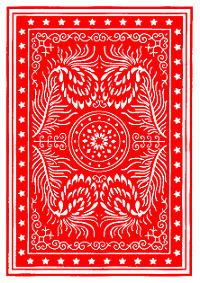
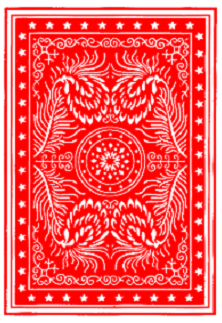
Added background image to menu and game

diff --git a/view/poker.css b/view/poker.css
@@ -11,13 +11,19 @@
     -fx-padding: 5.0px;
     -fx-border-color: black;
     -fx-border-width: 2.0px;
+    -fx-background-color: green;
+}
+
+#menuPane {
+	-fx-background-image: url("/images/menu_background.png");
+    -fx-background-position: center center;
 }
 
 .player {
 	-fx-padding: 5.0px;
     -fx-border-color: black;
     -fx-border-width: 2.0px;
-    -fx-background-color: green;
+    -fx-background-image: url("/images/green_background.png");
     -fx-color: white;
 }
 

diff --git a/view/PokerGameView.java b/view/PokerGameView.java
@@ -39,6 +39,7 @@ public class PokerGameView {
 		// create layout 1 and put it into the BorderPane
 		BorderPane rootLayout1 = new BorderPane();
 		VBox layout1 = new VBox(10);
+		rootLayout1.setId("menuPane");
 		layout1.setPadding(new Insets(20, 50, 50, 50));
 		rootLayout1.setCenter(layout1);
 
@@ -46,7 +47,7 @@ public class PokerGameView {
 		layout1.getChildren().addAll(labelMenu, twoPlayers, threePlayers, fourPlayers, startGame);
 
 		// create scene1 with layout1
-		scene1 = new Scene(rootLayout1, 400, 300);
+		scene1 = new Scene(rootLayout1, 550, 350);
 
 		// Create layout 2
 		// Create all of the player panes we need, and put them into an HBox
